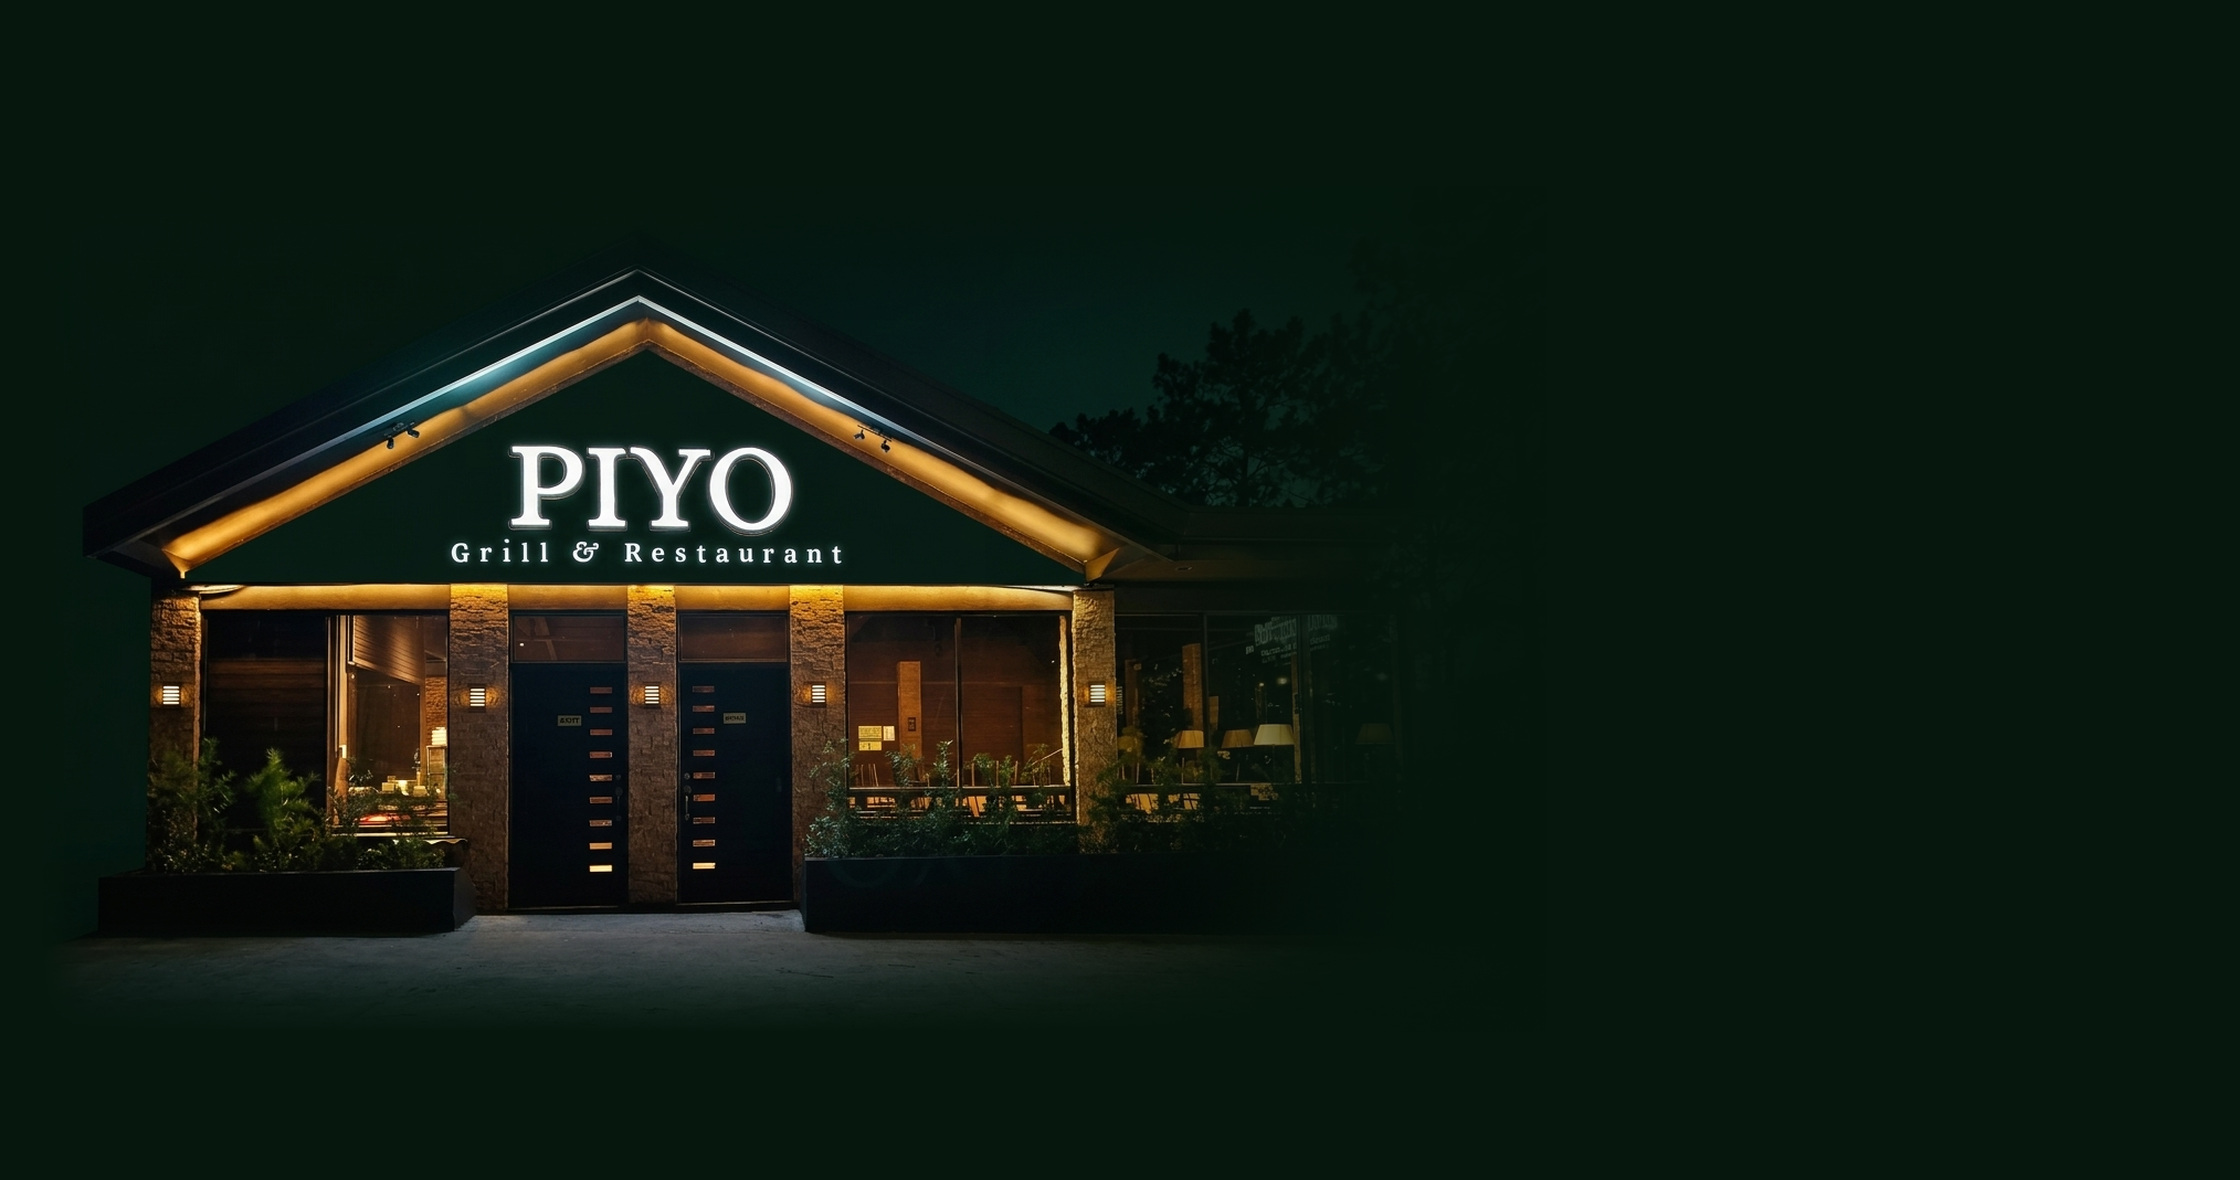
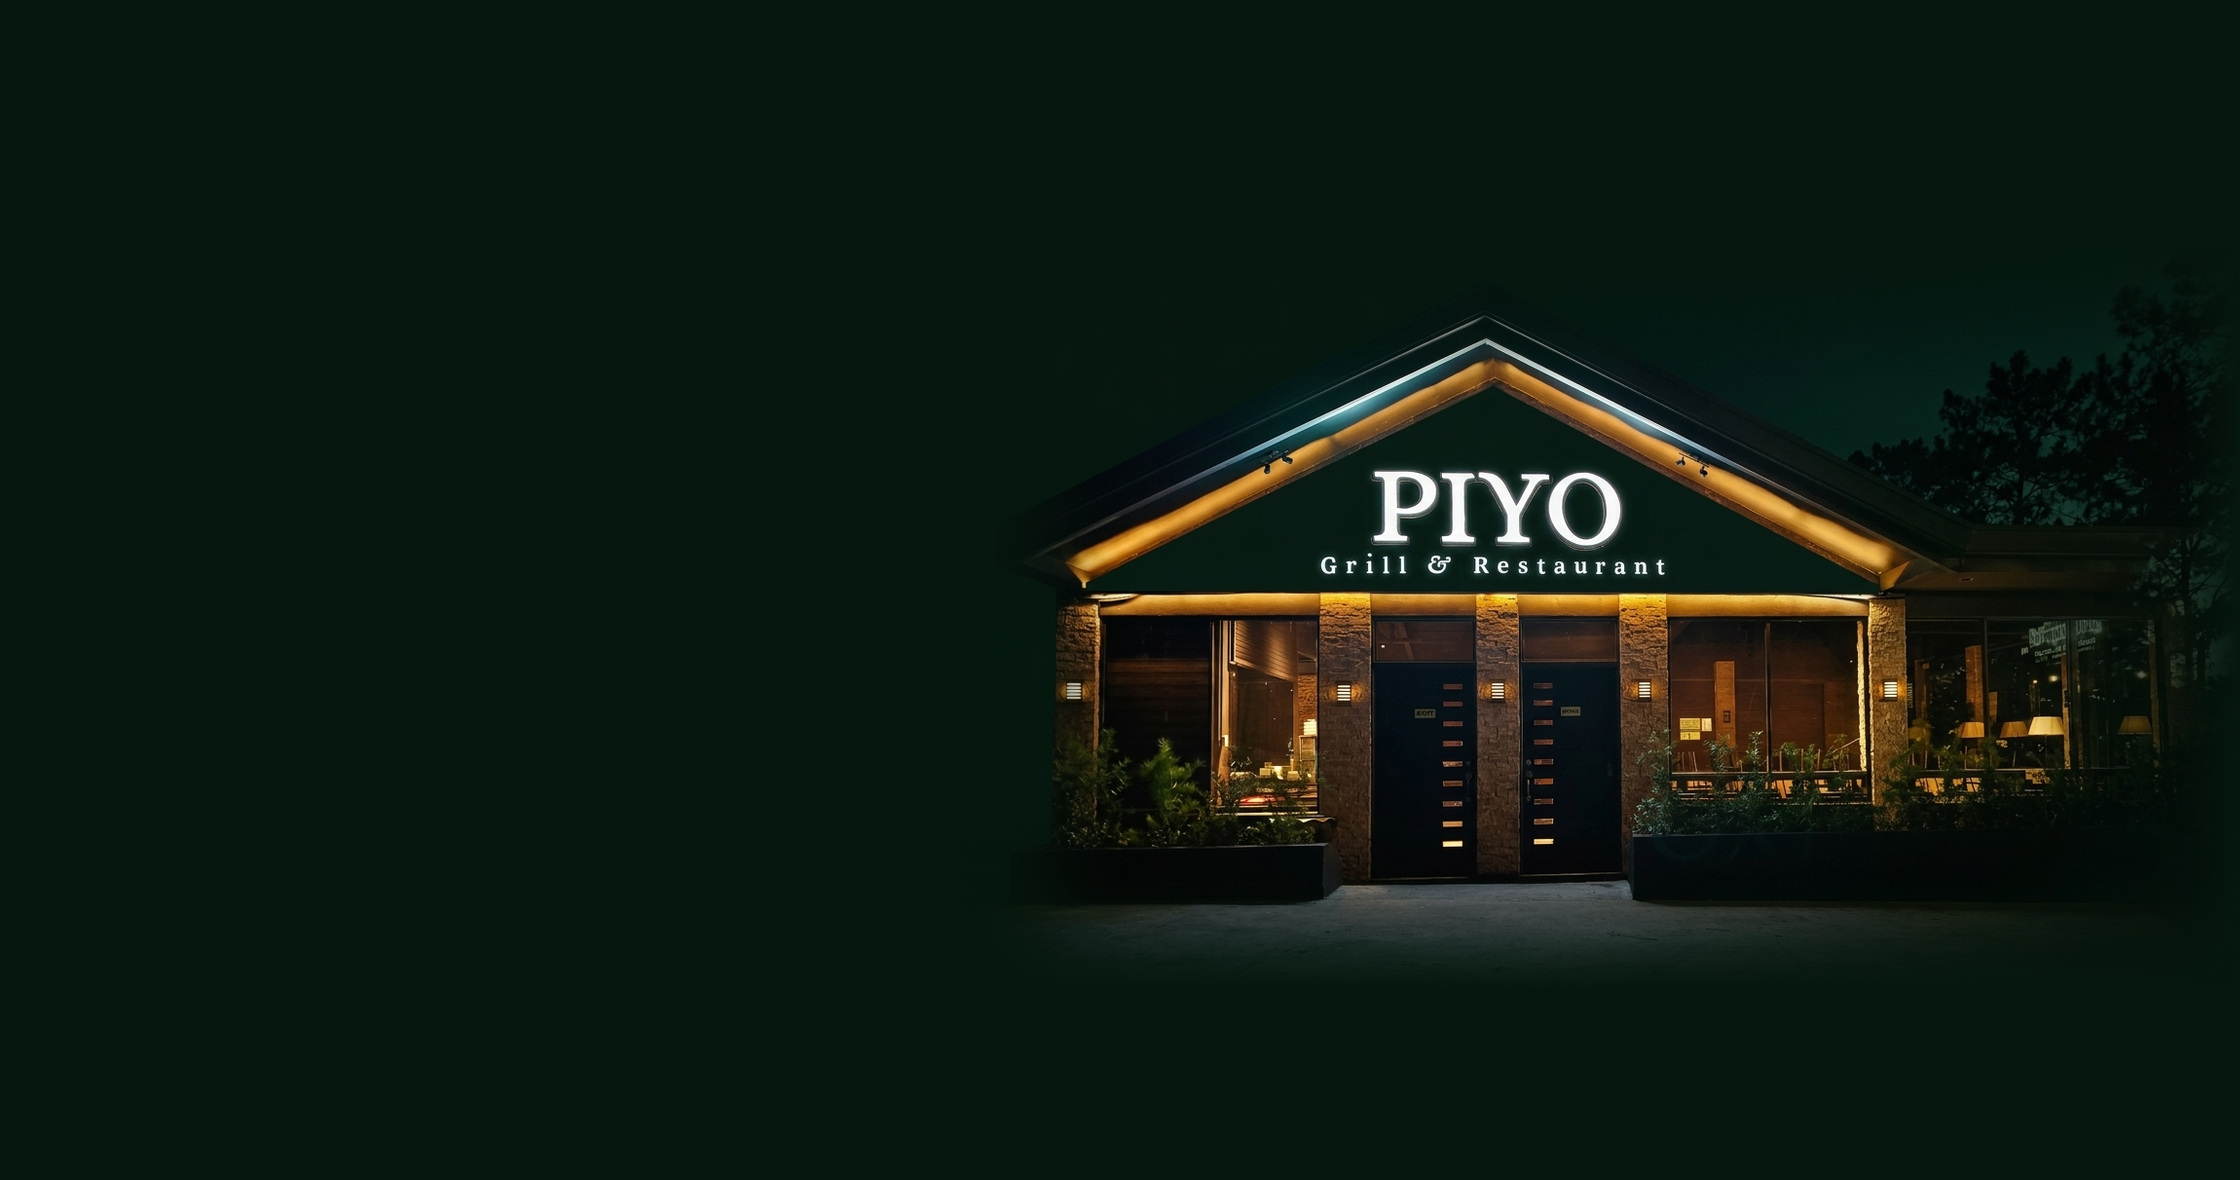
Swap HistorySection sides: editorial story left and level PIYO facade right

Changed region(s): [[0.0625, 0.2441, 0.9688, 0.8542], [0.9062, 0.4271, 0.9375, 0.4576]]

diff --git a/src/components/HistorySection.jsx b/src/components/HistorySection.jsx
@@ -40,7 +40,7 @@ export function HistorySection({ onExploreCraft, onVisitPlace }) {
         </p>
       </div>
 
-      {/* Desktop Full-Bleed Continuous 100% Architectural Canvas (Zero Hard Cutoff, Dead-Level Front Elevation) */}
+      {/* Desktop Full-Bleed Continuous 100% Architectural Canvas (Text Left, Dead-Level Front Elevation Right) */}
       <div className="pointer-events-none absolute inset-0 hidden lg:block">
         <img
           src="./images/piyo-place-real.jpg"
@@ -48,19 +48,19 @@ export function HistorySection({ onExploreCraft, onVisitPlace }) {
           loading="lazy"
           className="h-full w-full object-cover object-[center_52%]"
         />
-        {/* Whisper-soft unifying wash keeping the front facade razor-sharp while blending warm window light into the story column */}
+        {/* Whisper-soft unifying wash keeping the left narrative razor-sharp while letting the right facade glow cleanly */}
         <div
           className="absolute inset-0"
           style={{
             background:
-              'linear-gradient(90deg, rgba(6,24,14,0.02) 0%, rgba(6,24,14,0.0) 44%, rgba(6,24,14,0.34) 56%, rgba(6,24,14,0.68) 72%, rgba(6,24,14,0.88) 100%)',
+              'linear-gradient(90deg, rgba(6,24,14,0.88) 0%, rgba(6,24,14,0.70) 30%, rgba(6,24,14,0.28) 46%, rgba(6,24,14,0.0) 58%, rgba(6,24,14,0.04) 100%)',
           }}
         />
         <div
           className="absolute inset-0"
           style={{
             background:
-              'radial-gradient(ellipse 44% 50% at 54% 52%, rgba(223,185,111,0.05) 0%, transparent 72%)',
+              'radial-gradient(ellipse 44% 50% at 48% 52%, rgba(223,185,111,0.05) 0%, transparent 72%)',
           }}
         />
         <div
@@ -72,9 +72,9 @@ export function HistorySection({ onExploreCraft, onVisitPlace }) {
         />
       </div>
 
-      {/* Center Editorial Content Grid — Aligned & Connected Directly with the Facade Horizon */}
+      {/* Center Editorial Content Grid — Narrative Left, Connected Directly with Straight-On Facade Right */}
       <div className="relative z-10 mx-auto flex w-full max-w-[1520px] flex-1 items-center px-5 pb-10 pt-4 sm:px-8 lg:grid lg:grid-cols-12 lg:px-10 lg:py-4 2xl:px-14 2xl:py-6">
-        <div className="lg:col-span-6 lg:col-start-7 lg:pl-4 xl:pl-8 2xl:pl-10">
+        <div className="lg:col-span-6 lg:pr-6 xl:pr-10 2xl:pr-12">
           {/* Quiet Tracked Eyebrow */}
           <div className="flex items-center gap-3 text-[11px] font-medium uppercase tracking-[0.24em] text-[#DFB96F]">
             <span>Our Story</span>
